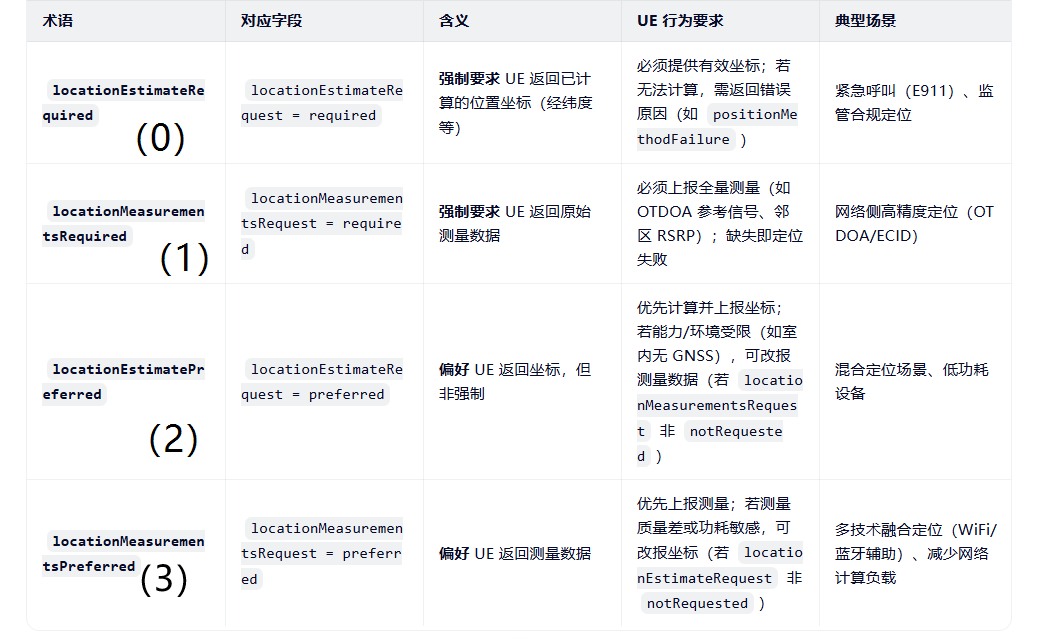
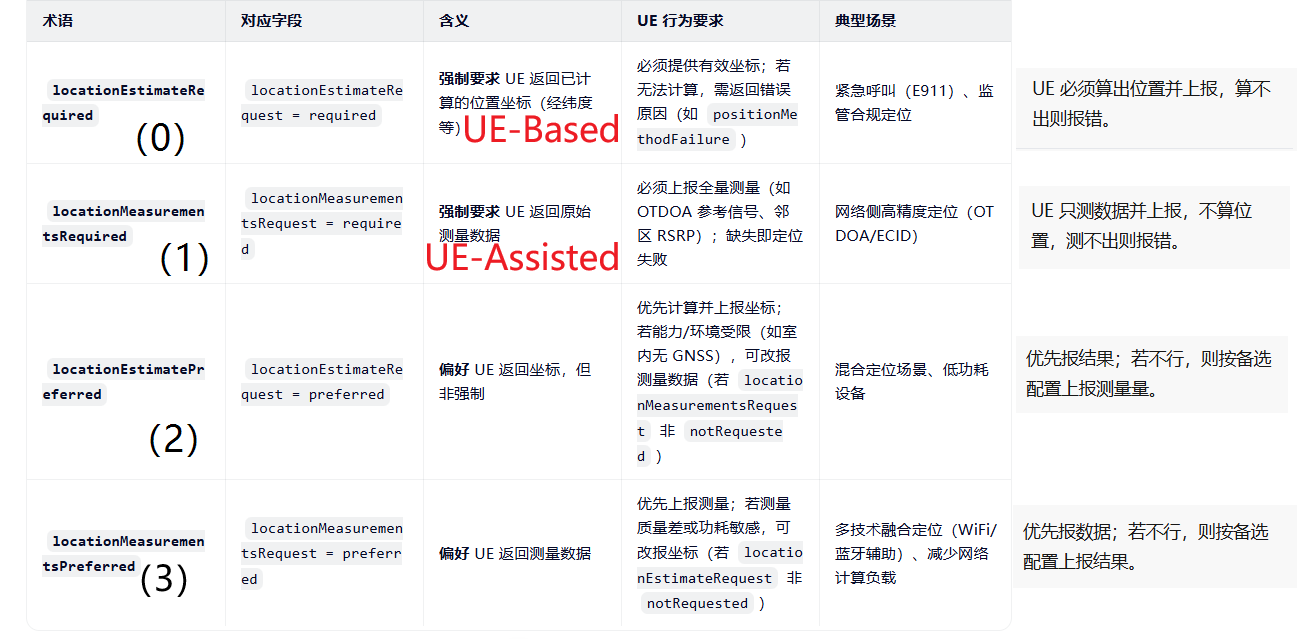
Zukgit_Commit

diff --git a/_posts/Technology/2023-10-09-GPS_SUPL学习.md b/_posts/Technology/2023-10-09-GPS_SUPL学习.md
@@ -784,10 +784,10 @@ LocationInformationType ::= ENUMERATED {
 
 | 术语 | 对应字段 | 含义 | UE 行为要求 | 典型场景 |
 |------|----------|------|--------------|----------|
-| `locationEstimateRequired(0)` | `locationEstimateRequest = required` | 强制要求 UE 返回已计算的位置坐标（经纬度等） | 必须提供有效坐标；若无法计算，需返回错误原因（如 `positionMethodFailure`） | 紧急呼叫（E911）、监管合规定位 |
-| `locationMeasurementsRequired(1)` | `locationMeasurementsRequest = required` | 强制要求 UE 返回原始测量数据 | 必须上报全量测量（如 OTDOA 参考信号、邻区 RSRP）；缺失即定位失败 | 网络侧高精度定位（OTDOA/ECID） |
-| `locationEstimatePreferred(2)` | `locationEstimateRequest = preferred` | 偏好 UE 返回坐标，但非强制 | 优先计算并上报坐标；若能力/环境受限（如室内无 GNSS），可改报测量数据（若 `locationMeasurementsRequest` 非 `notRequested`） | 混合定位场景、低功耗设备 |
-| `locationMeasurementsPreferred(3)` | `locationMeasurementsRequest = preferred` | 偏好 UE 返回测量数据 | 优先上报测量；若测量质量差或功耗敏感，可改报坐标（若 `locationEstimateRequest` 非 `notRequested`） | 多技术融合定位（WiFi/蓝牙辅助）、减少网络计算负载 |
+| `locationEstimateRequired(0)` | `locationEstimateRequest = required` | 【	UE-Based】 强制要求 UE 返回已计算的位置坐标（经纬度等） | 必须提供有效坐标；若无法计算，需返回错误原因（如 `positionMethodFailure`） | 紧急呼叫（E911）、监管合规定位 |
+| `locationMeasurementsRequired(1)` | `locationMeasurementsRequest = required` | 【UE-Assisted】 强制要求 UE 返回原始测量数据 | 必须上报全量测量（如 OTDOA 参考信号、邻区 RSRP）；缺失即定位失败 | 网络侧高精度定位（OTDOA/ECID） |
+| `locationEstimatePreferred(2)` | `locationEstimateRequest = preferred` | 偏好 UE 返回坐标，但非强制 【混合/切换_优先位置】| 优先计算并上报坐标；若能力/环境受限（如室内无 GNSS），可改报测量数据（若 `locationMeasurementsRequest` 非 `notRequested`） | 混合定位场景、低功耗设备 |
+| `locationMeasurementsPreferred(3)` | `locationMeasurementsRequest = preferred` | 偏好 UE 返回测量数据 【混合/切换_优先测量数据】 | 优先上报测量；若测量质量差或功耗敏感，可改报坐标（若 `locationEstimateRequest` 非 `notRequested`） | 多技术融合定位（WiFi/蓝牙辅助）、减少网络计算负载 |
 
 
 
